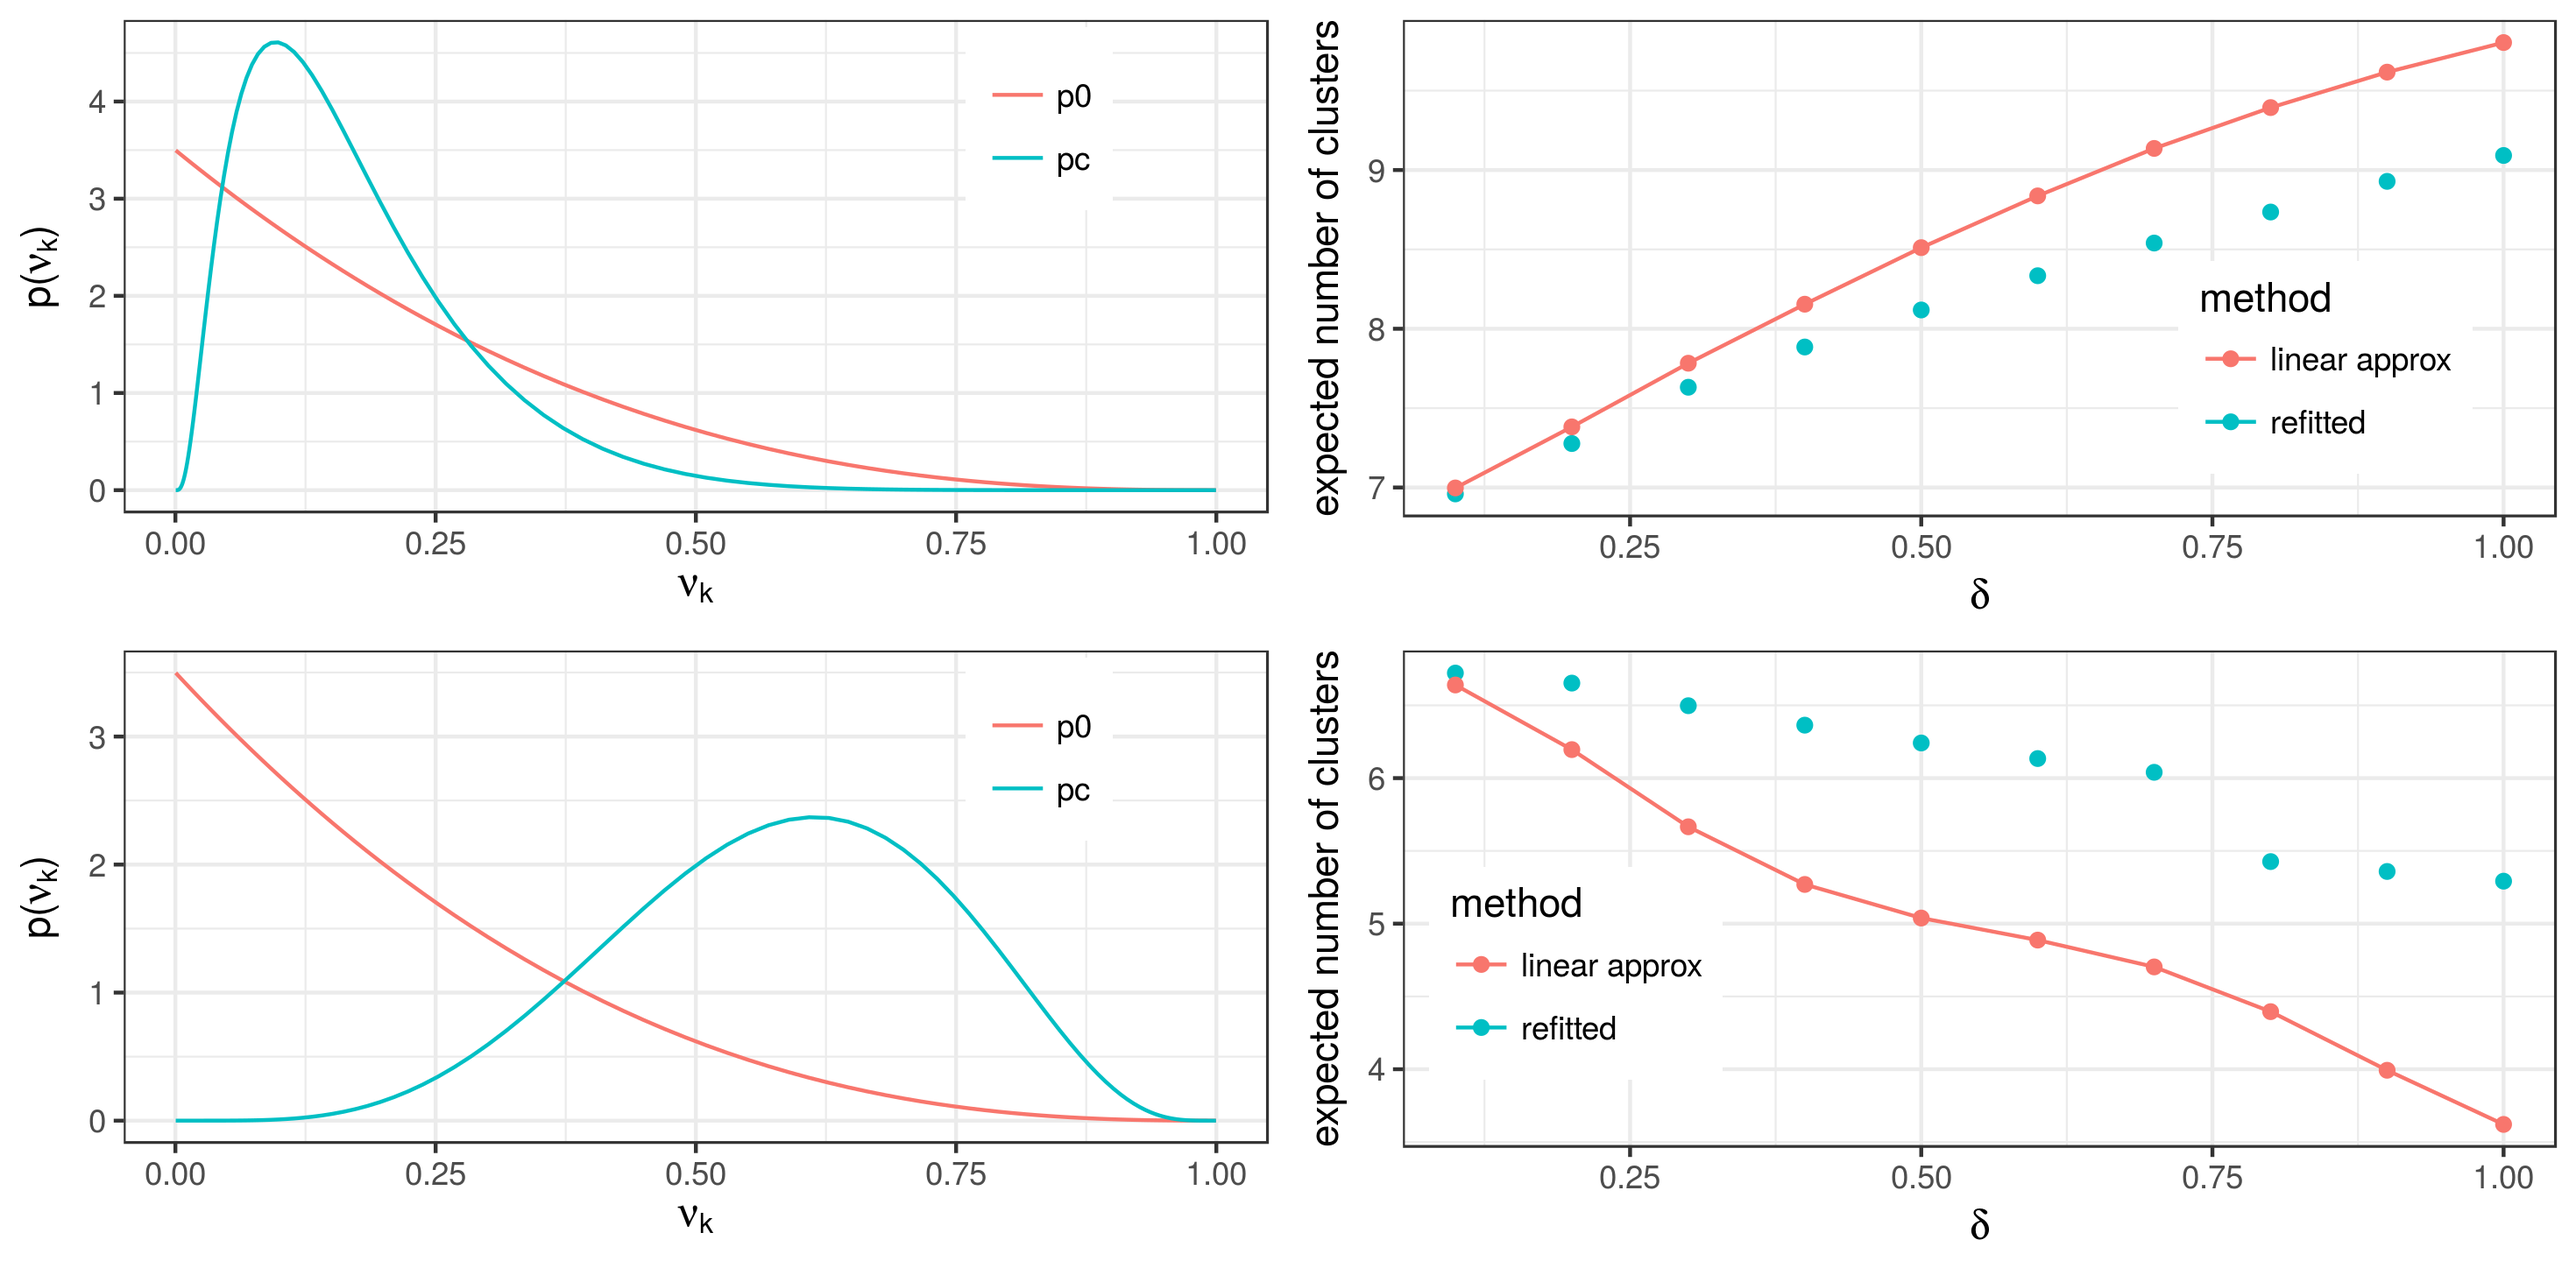
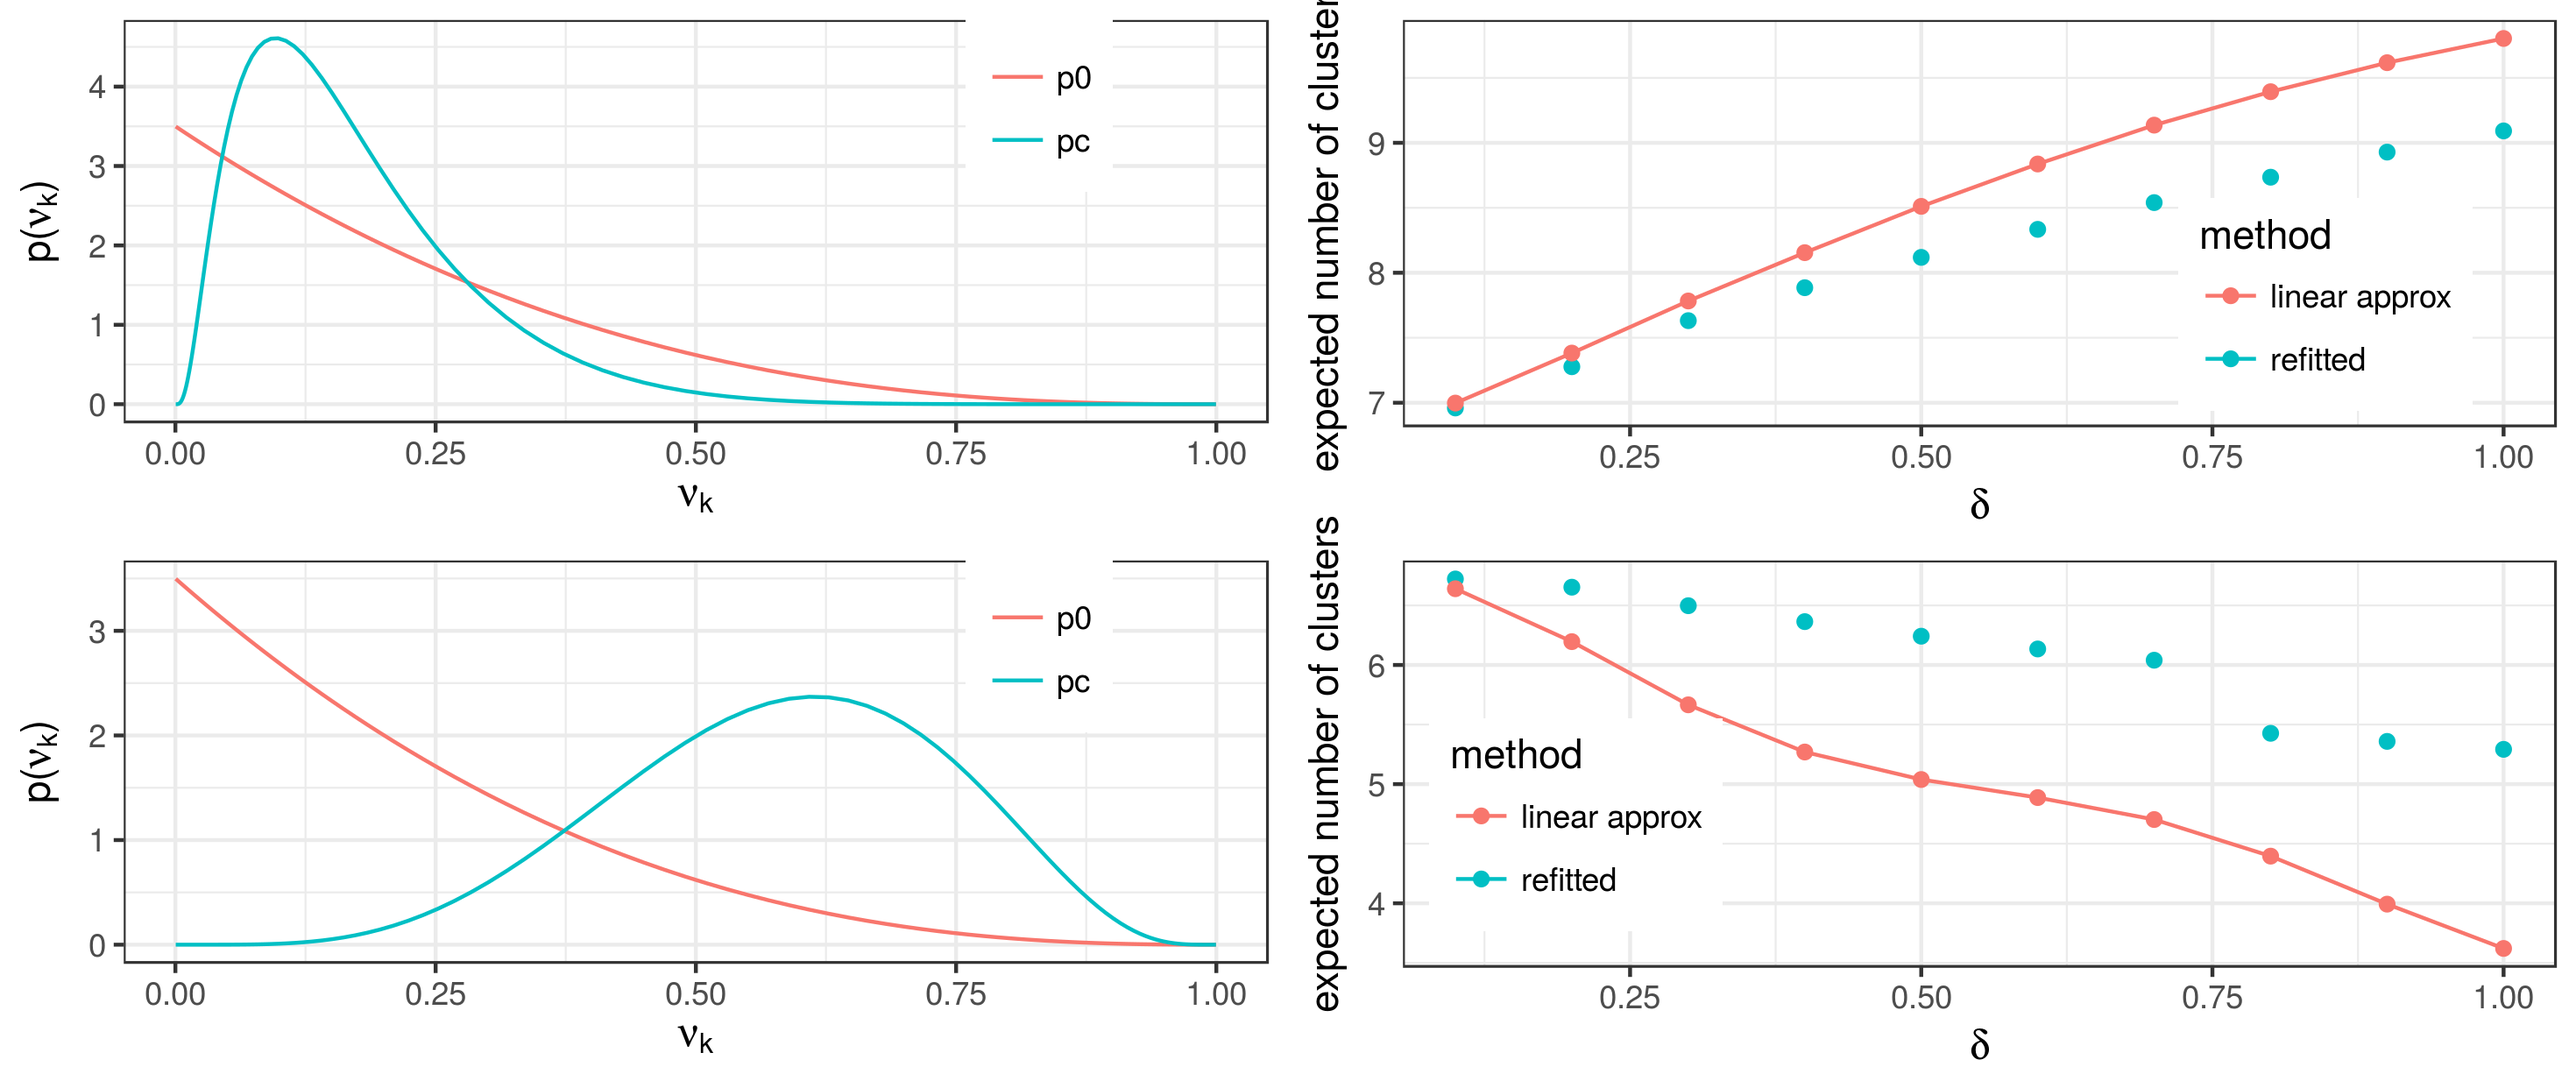
Back to four pages

diff --git a/writing/NIPS_2018_BNP_workshop/variational_approx.tex b/writing/NIPS_2018_BNP_workshop/variational_approx.tex
@@ -46,27 +46,32 @@ $\vbfamily =
 %
 The variational approximation is then given by
 %
-\begin{align*}
+%\begin{align*}
+$
 \etaopt = \argmin_{\eta} KL\left(
     q(\theta, z \vert \eta) \big\| p(\theta, z | y)
     \right). %\label{eq:kl_objective}
-\end{align*}
+$
+%\end{align*}
 %
 %Let $\qopt\left(\theta, z\right) = q\left(\theta, z \vert \etaopt\right)$.
+
 It will be important later to note that it is easy to calculate
 the optimal $\eta_z$ for a given $\eta_\theta$ because the model is
 conjugate, i.e., $p\left(z \vert \theta, y\right)$ is multinomial,
 and so is $q\left(z \vert \eta_z\right)$.  Specifically, there
 exists an easily-calculated, closed form for
 %
-\begin{align}
+%\begin{align}
+$
 \etazopt\left(\eta_\theta\right) = \argmin_{\eta_z}
     KL\left(
     q(\theta \vert \eta_\theta) q( z \vert \eta_z)
         \big\| p(\theta, z | y)
     \right).
-\label{eq:z_update}
-\end{align}
+$
+%\label{eq:z_update}
+%\end{align}
 %
 
 %%%%%%%%%%%%%%%%

diff --git a/writing/NIPS_2018_BNP_workshop/functional_perturbations.tex b/writing/NIPS_2018_BNP_workshop/functional_perturbations.tex
@@ -52,7 +52,8 @@ non-linear perturbations considered by \citet{gustafson:1996:localposterior}.
 
 Finally, by linearity of the derivative, the effect of changing all the stick
 priors simultaneously by the same perturbation, $\phi$, is given by taking
-$\delta_1 = ... = \delta_K = \delta$, and
+$\delta = \delta_1 = ... = \delta_K$, and
 $\frac{d\etaopt}{d\delta} \Big\rvert_{\eta_\theta = \etathetaopt, \delta=0} =
     \sum_{k=1}^{K} \frac{d\etaopt}{d\delta_k}
-    \Big\rvert_{\eta_\theta = \etathetaopt, \delta_k=0}$.
+    \Big\rvert_{\eta_\theta = \etathetaopt, \delta_k=0}$
+\citep{gustafson:1996:localmarginals}.

diff --git a/writing/NIPS_2018_BNP_workshop/results_alpha.tex b/writing/NIPS_2018_BNP_workshop/results_alpha.tex
@@ -22,7 +22,7 @@ close to $\alpha_0$, as seen in \prettyref{fig:parametric_sens_plot}.
 \begin{knitrout}
 \definecolor{shadecolor}{rgb}{0.969, 0.969, 0.969}\color{fgcolor}\begin{figure}[!h]
 
-{\centering \includegraphics[width=0.98\linewidth,height=0.343\linewidth]{figure/parametric_sens_plot-1} 
+{\centering \includegraphics[width=0.98\linewidth,height=0.294\linewidth]{figure/parametric_sens_plot-1} 
 
 }
 

diff --git a/writing/NIPS_2018_BNP_workshop/results_functions.tex b/writing/NIPS_2018_BNP_workshop/results_functions.tex
@@ -19,7 +19,7 @@ p_{0k}(\nu_k)$.
 \begin{knitrout}
 \definecolor{shadecolor}{rgb}{0.969, 0.969, 0.969}\color{fgcolor}\begin{figure}[!h]
 
-{\centering \includegraphics[width=0.98\linewidth,height=0.480\linewidth]{figure/functional_sens_plot-1} 
+{\centering \includegraphics[width=0.98\linewidth,height=0.412\linewidth]{figure/functional_sens_plot-1} 
 
 }
 
